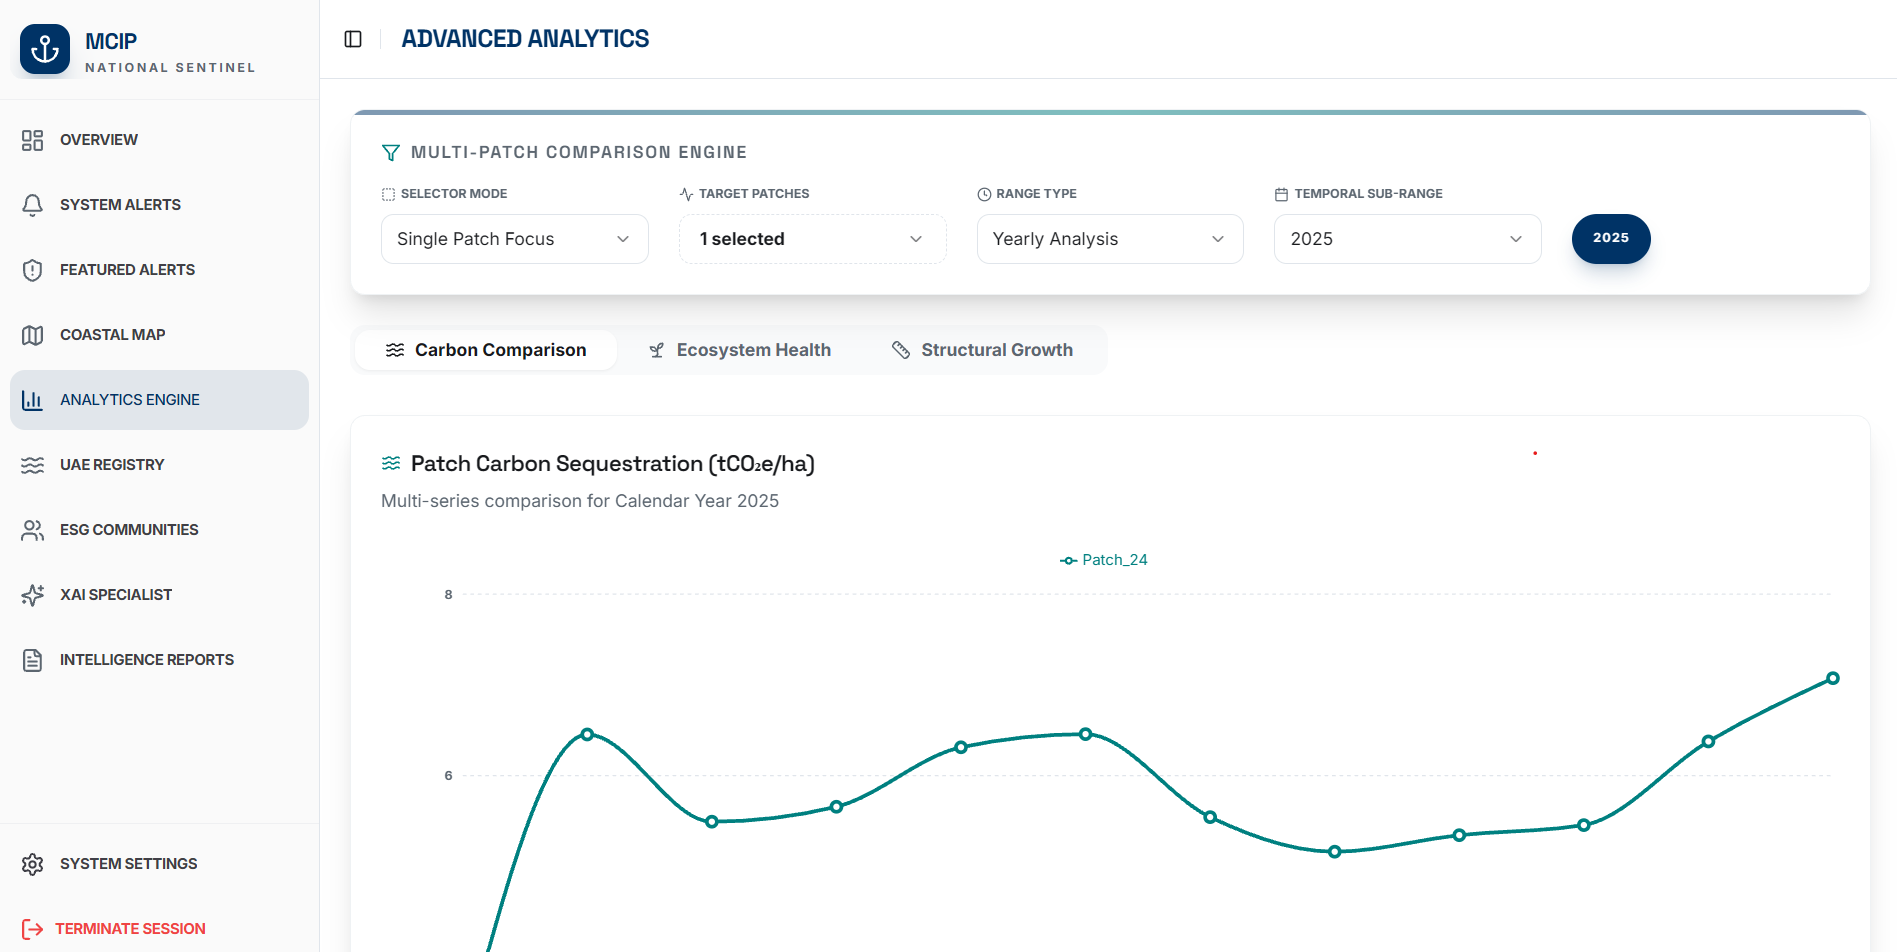
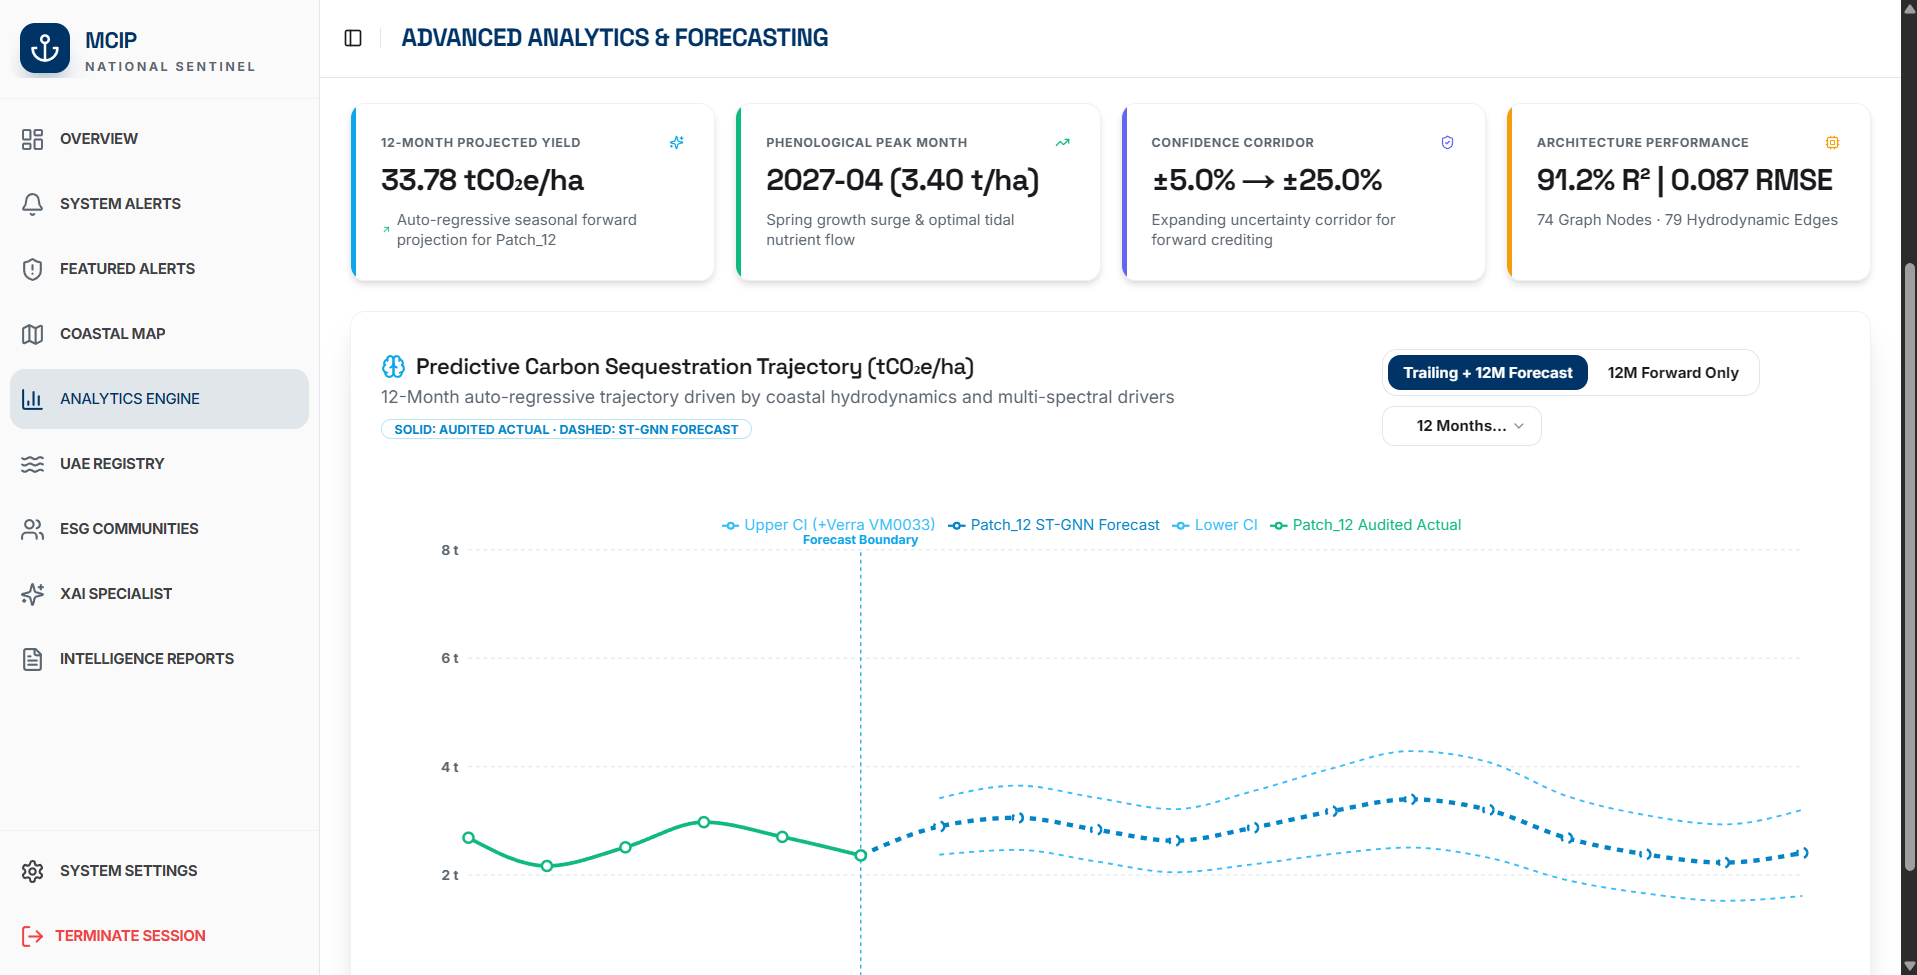
fix(kpi): align platform KPIs with authentic UAE telemetry & ignore office temp locks

diff --git a/mrv/src/app/page.tsx b/mrv/src/app/page.tsx
@@ -26,10 +26,12 @@ export default function Dashboard() {
     totalCarbon: number;
     totalArea: number;
     avgHealth: number;
+    totalSeagrass: number;
   }>({
     totalCarbon: 48200,
     totalArea: 1840,
-    avgHealth: 88.5
+    avgHealth: 39.1,
+    totalSeagrass: 180,
   })
   const [isAggregating, setIsAggregating] = React.useState(false)
 
@@ -40,7 +42,12 @@ export default function Dashboard() {
       if (cached) {
         const parsed = JSON.parse(cached)
         if (parsed.totalCarbon > 0 && parsed.totalArea > 0) {
-          setAggregates(parsed)
+          setAggregates({
+            totalCarbon: parsed.totalCarbon,
+            totalArea: parsed.totalArea,
+            avgHealth: parsed.avgHealth > 0 ? parsed.avgHealth : 39.1,
+            totalSeagrass: parsed.totalSeagrass || 180,
+          })
         }
       }
     } catch (e) {}
@@ -88,7 +95,7 @@ export default function Dashboard() {
         ? patch.current_health_score
         : (patch.healthScore !== undefined && patch.healthScore !== 0) 
         ? patch.healthScore 
-        : 62.4
+        : 39.1
       healthSum += healthValue
       healthCount++
     })
@@ -97,7 +104,8 @@ export default function Dashboard() {
       const next = {
         ...prev,
         totalArea,
-        avgHealth: healthCount > 0 ? healthSum / healthCount : prev.avgHealth
+        avgHealth: healthCount > 0 ? Number((healthSum / healthCount).toFixed(1)) : prev.avgHealth,
+        totalSeagrass: 180
       }
       try { localStorage.setItem("mcip_dashboard_kpis", JSON.stringify(next)) } catch (e) {}
       return next
@@ -145,23 +153,23 @@ export default function Dashboard() {
     {
       title: "Total Mangrove Area",
       value: `${aggregates.totalArea.toLocaleString()} Ha`,
-      subtext: "Monitored Landscape",
+      subtext: "100 Monitored Patches",
       icon: TreePine,
       color: "text-green-500",
       bg: "bg-green-500",
     },
     {
       title: "Total Seagrass Area",
-      value: `0 Ha`,
+      value: `${aggregates.totalSeagrass.toLocaleString()} Ha`,
       subtext: "Submerged Blue Carbon",
       icon: Leaf,
-      color: "text-muted-foreground",
-      bg: "bg-muted",
+      color: "text-teal-500",
+      bg: "bg-teal-500",
     },
     {
       title: "Ecosystem Health Score",
       value: `${aggregates.avgHealth.toFixed(1)} / 100`,
-      subtext: "System-wide Vitality",
+      subtext: "System-wide Vitality Index",
       icon: Activity,
       color: "text-accent",
       bg: "bg-accent",

diff --git a/mrv/src/components/map/patch-visualization.tsx b/mrv/src/components/map/patch-visualization.tsx
@@ -18,7 +18,7 @@ coastalEdgesRaw.forEach(e => {
   connectionCounts[e.destination] = (connectionCounts[e.destination] || 0) + 1
 })
 
-function getFallbackHistory(patchId: string, baseAbsorption = 1.82, baseHealth = 54.0) {
+function getFallbackHistory(patchId: string, baseAbsorption = 1.82, baseHealth = 39.1) {
   const dates = [
     "2023-01", "2024-01", "2025-01", "2026-01", 
     "2026-02", "2026-03", "2026-04", "2026-05", 
@@ -65,7 +65,7 @@ export function PatchVisualization({
       return {
         carbon: auditData.current_absorption_per_ha ?? last.absorption,
         absorption: auditData.current_absorption_per_ha ?? last.absorption,
-        healthScore: auditData.current_health_score ?? last.health ?? 54.0,
+        healthScore: auditData.current_health_score ?? last.health ?? 39.1,
         history: hist
       };
     }

diff --git a/mrv/src/lib/mock-data.ts b/mrv/src/lib/mock-data.ts
@@ -95,8 +95,8 @@ export const MOCK_ALERTS: Alert[] = [
 ];
 
 export const KPI_TOTALS = {
-  totalBlueCarbon: 23500,
-  totalMangroveArea: 840,
+  totalBlueCarbon: 48200,
+  totalMangroveArea: 1840,
   totalSeagrassArea: 180,
-  avgEcosystemHealth: 78,
+  avgEcosystemHealth: 39.1,
 };
